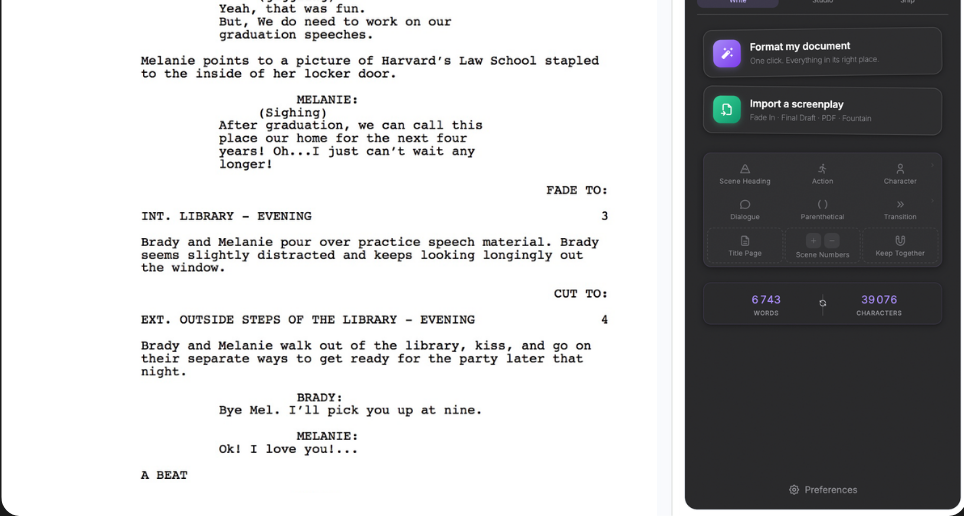
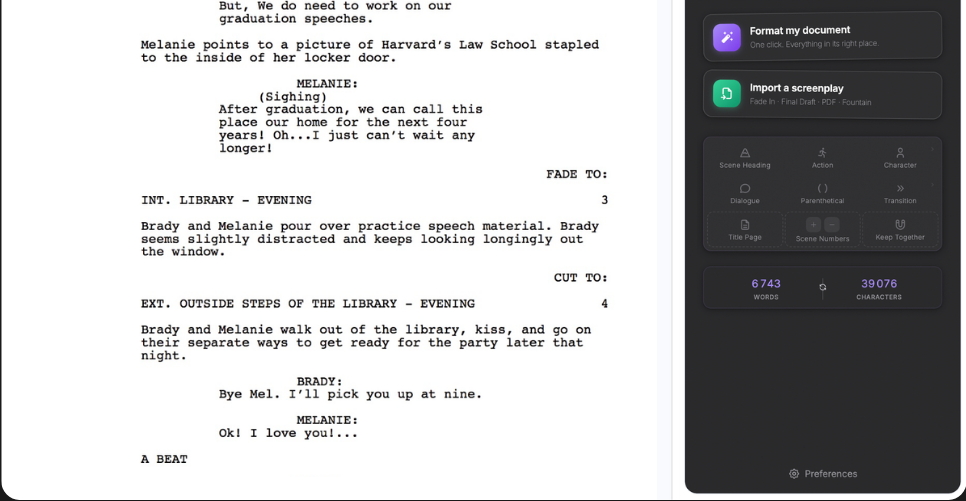
Site: remove breadcrumb, fix plane placement, About pedigree, LEARN shot
- Remove the (useless) breadcrumb bar from every page; the hero now
  clears the fixed header itself.
- Plane: it was cut off on the shorter heroes. Give heroes a min-height
  and move the plane up so it's fully visible on both short and tall
  heroes, without overlapping the title.
- About: drop the pedigree line in the hero, per request.
- Schools: re-crop the LEARN screenshot to remove a stray tape strip at
  the top.

diff --git a/schools.html b/schools.html
@@ -44,7 +44,8 @@
     /* HERO */
     .hero {
       background: var(--dark);
-      padding: 26px 30px 76px;
+      padding: 104px 30px 72px;
+      min-height: 380px;
       text-align: center;
       position: relative;
       overflow: hidden;
@@ -93,7 +94,7 @@
     }
     .float-obj.nomask { -webkit-mask-image: none; mask-image: none; }
     .hero-plane {
-      width: 200px; right: -50px; top: 210px; transform: rotate(-10deg);
+      width: 164px; right: -42px; top: 34px; transform: rotate(-10deg);
       filter: drop-shadow(0 18px 30px rgba(0,0,0,0.45));
     }
     @media (max-width: 1100px) { .float-obj { display: none; } }
@@ -263,12 +264,6 @@
 <body>
 
   <site-header></site-header>
-
-  <div class="breadcrumb-bar">
-    <div class="breadcrumb-content">
-      <div class="breadcrumb"><a href="/">Home</a> / <span>Schools</span></div>
-    </div>
-  </div>
 
   <main>
     <!-- HERO -->

diff --git a/about.html b/about.html
@@ -35,18 +35,11 @@
 <body>
   <site-header></site-header>
 
-  <div class="breadcrumb-bar">
-    <div class="breadcrumb-content">
-      <div class="breadcrumb"><a href="/">Home</a> / <span>About</span></div>
-    </div>
-  </div>
-
   <main>
     <section class="hero">
       <div class="hero-inner">
         <div class="hero-eyebrow">About</div>
         <h1>Built by a filmmaker,<br><span>for filmmakers.</span></h1>
-        <div class="hero-proof"><span>Willy 1er &middot; ACID Cannes</span><span class="dot">&middot;</span><span>Juniors on Netflix</span><span class="dot">&middot;</span><span>Clermont-Ferrand awards</span></div>
         <img class="float-obj hero-plane nomask" src="obj-plane-cut.png" alt="" aria-hidden="true">
       </div>
     </section>

diff --git a/site-theme.css b/site-theme.css
@@ -31,7 +31,8 @@ a { color: inherit; }
 /* HERO */
 .hero {
   background: var(--dark);
-  padding: 26px 30px 76px;
+  padding: 104px 30px 72px;
+  min-height: 380px;
   text-align: center;
   position: relative;
   overflow: hidden;
@@ -81,7 +82,7 @@ a { color: inherit; }
 }
 .float-obj.nomask { -webkit-mask-image: none; mask-image: none; }
 .hero-plane {
-  width: 200px; right: -50px; top: 210px; transform: rotate(-10deg);
+  width: 164px; right: -42px; top: 34px; transform: rotate(-10deg);
   filter: drop-shadow(0 18px 30px rgba(0,0,0,0.45));
 }
 @media (max-width: 1100px) { .float-obj { display: none; } }

diff --git a/resources/index.html b/resources/index.html
@@ -81,12 +81,6 @@
 <body>
   <site-header></site-header>
 
-  <div class="breadcrumb-bar">
-    <div class="breadcrumb-content">
-      <div class="breadcrumb"><a href="/">Home</a> / <span>Resources</span></div>
-    </div>
-  </div>
-
   <main>
     <!-- HERO -->
     <section class="hero">

diff --git a/support.html b/support.html
@@ -37,12 +37,6 @@
 <body>
   <site-header></site-header>
 
-  <div class="breadcrumb-bar">
-    <div class="breadcrumb-content">
-      <div class="breadcrumb"><a href="/">Home</a> / <span>Support</span></div>
-    </div>
-  </div>
-
   <main>
     <!-- HERO -->
     <section class="hero">

diff --git a/compare/index.html b/compare/index.html
@@ -101,12 +101,6 @@
 
   <site-header></site-header>
 
-  <div class="breadcrumb-bar">
-    <div class="breadcrumb-content">
-      <div class="breadcrumb"><a href="/">Home</a> / <span>Compare</span></div>
-    </div>
-  </div>
-
   <main>
     <!-- HERO -->
     <section class="hero">

diff --git a/blog.html b/blog.html
@@ -80,12 +80,6 @@
 
   <site-header></site-header>
 
-  <div class="breadcrumb-bar">
-    <div class="breadcrumb-content">
-      <div class="breadcrumb"><a href="/">Home</a> / <span>Blog</span></div>
-    </div>
-  </div>
-
   <main>
     <!-- HERO -->
     <section class="hero">
